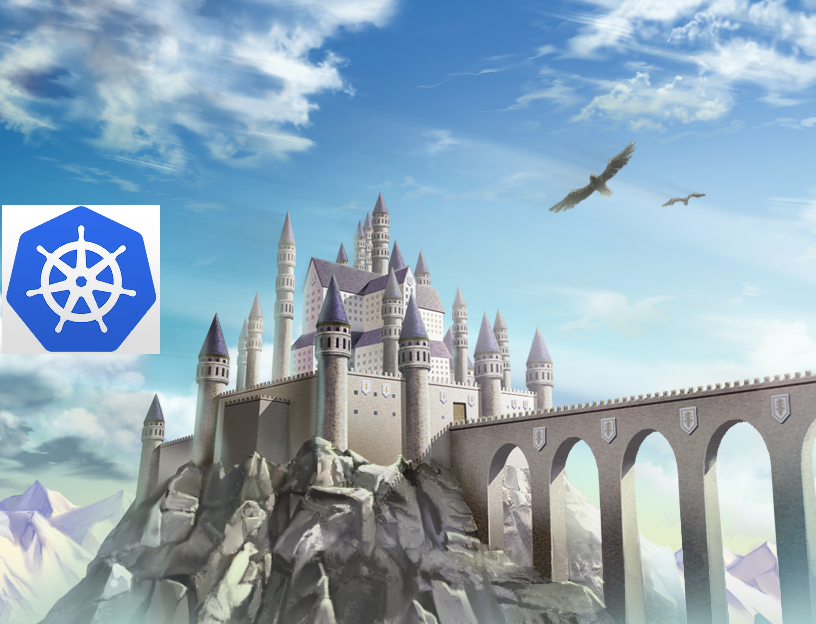
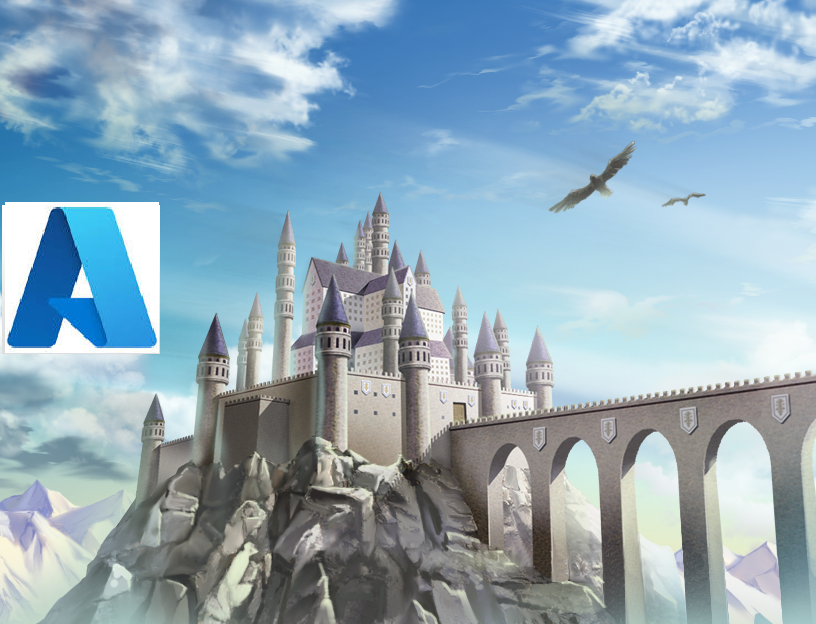
fix: update game title and content from Kubernetes to Azure Isekai

Changed region(s): [[0.0, 0.3045, 0.2145, 0.5785]]

diff --git a/README.md b/README.md
@@ -1,33 +1,25 @@
-# k8s-isekai
+# Azure-isekai
 
-Kubernetes Isekai (異世界） is an open-source RPG designed for hands-on Kubernetes learning through gamification. Ideal for junior to Higher Diploma students of Hong Kong Institute of Information Technology (HKIIT), it transforms Kubernetes education into an engaging adventure.
+Azure Isekai (異世界) is an open-source RPG designed for hands-on Azure learning through gamification. Ideal for junior to Higher Diploma students of Hong Kong Institute of Information Technology (HKIIT), it transforms Azure education into an engaging adventure.
 
-1. Role-Playing Adventure: Students interact with NPCs who assign Kubernetes tasks.
-2. Task-Based Learning: Tasks involve setting up and managing Kubernetes clusters.
-3. Free Access: Uses AWS Academy Learner Lab with Minikube or Kubernetes.
-4. Scalable Grading: AWS SAM application tests Kubernetes setups within AWS Lambda.
-5. Progress Tracking: Students track progress and earn rewards.
-6. This game offers practical Kubernetes experience in a fun, cost-effective way.
-7. GenAI Chat: Integrates Generative AI to make NPC interactions more dynamic and fun, enhancing the overall learning experience.
+1. Role-Playing Adventure: Students interact with NPCs who assign Azure tasks.
+2. Task-Based Learning: Tasks involve setting up and managing Azure.
+3. Scalable Grading: Application tests Azure setups within Azure Functions.
+4. Progress Tracking: Students track progress and earn rewards.
+5. This game offers practical Azure experience in a fun, cost-effective way.
+6. GenAI Chat: Integrates Generative AI to make NPC interactions more dynamic and fun, enhancing the overall learning experience.
 
 This repository hosts a Web RPG game that you can fork and customize to your liking.
 
-AWS SAM Repo for Backend
-
-https://github.com/wongcyrus/k8s-grader
-
-Kubernetes Unit Test for Game Rule
-
-https://github.com/wongcyrus/k8s-game-rule
 
 ## Demo
 
-[![#Kubernetes Isekai (Alpha) -  free #k8s #rpggame with free #awsacademy learner lab](https://img.youtube.com/vi/dIwNWwz681k/0.jpg)](https://youtu.be/dIwNWwz681k)
+[![#Azure Isekai (Alpha) - free #aks #rpggame](https://img.youtube.com/vi/dIwNWwz681k/0.jpg)](https://youtu.be/dIwNWwz681k)
 
 # Development
 
-This game was created using [RPG maker](https://www.rpgmakerweb.com/), with a custom plugin, "NpcK8sPluginCommand.js," located in the "js\plugins" directory.
-You can modify the game within RPG Maker. To enable non-player characters (NPCs) to interact with the k8s-grader-api, you must configure the Plugin Command.
+This game was created using [RPG maker](https://www.rpgmakerweb.com/), with a custom plugin, "NpcK8sPluginCommand.js," located in the "js\\plugins" directory.
+You can modify the game within RPG Maker. To enable non-player characters (NPCs) to interact with the grader API, you must configure the Plugin Command.
 
 ## How to set the NPC NpcK8sPluginCommand?
 
@@ -49,7 +41,7 @@ You can modify the game within RPG Maker. To enable non-player characters (NPCs)
 2. Install the [Live Server](https://marketplace.visualstudio.com/items?itemName=ritwickdey.LiveServer) extension.
 3. Right-click `index.html` and select "Open with Live Server."
 4. Set the query parameters:
-   `?baseUrl=https://ApiGatewayApi.execute-api.us-east-1.amazonaws.com/Prod/&game=game01&apiKey=INDIVIDUAL_API_KEY`
+   `?baseUrl=https://your-api-endpoint/&game=game01&apiKey=INDIVIDUAL_API_KEY`
 
 ## Core Developers
 
